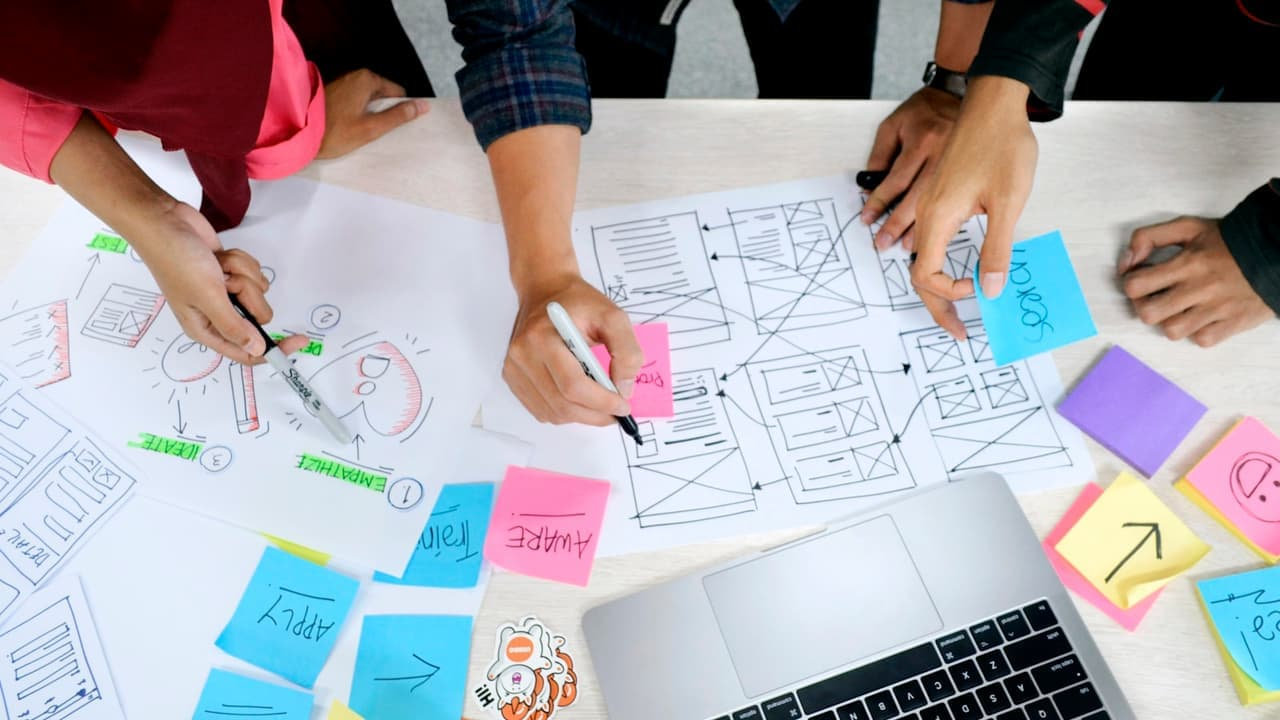
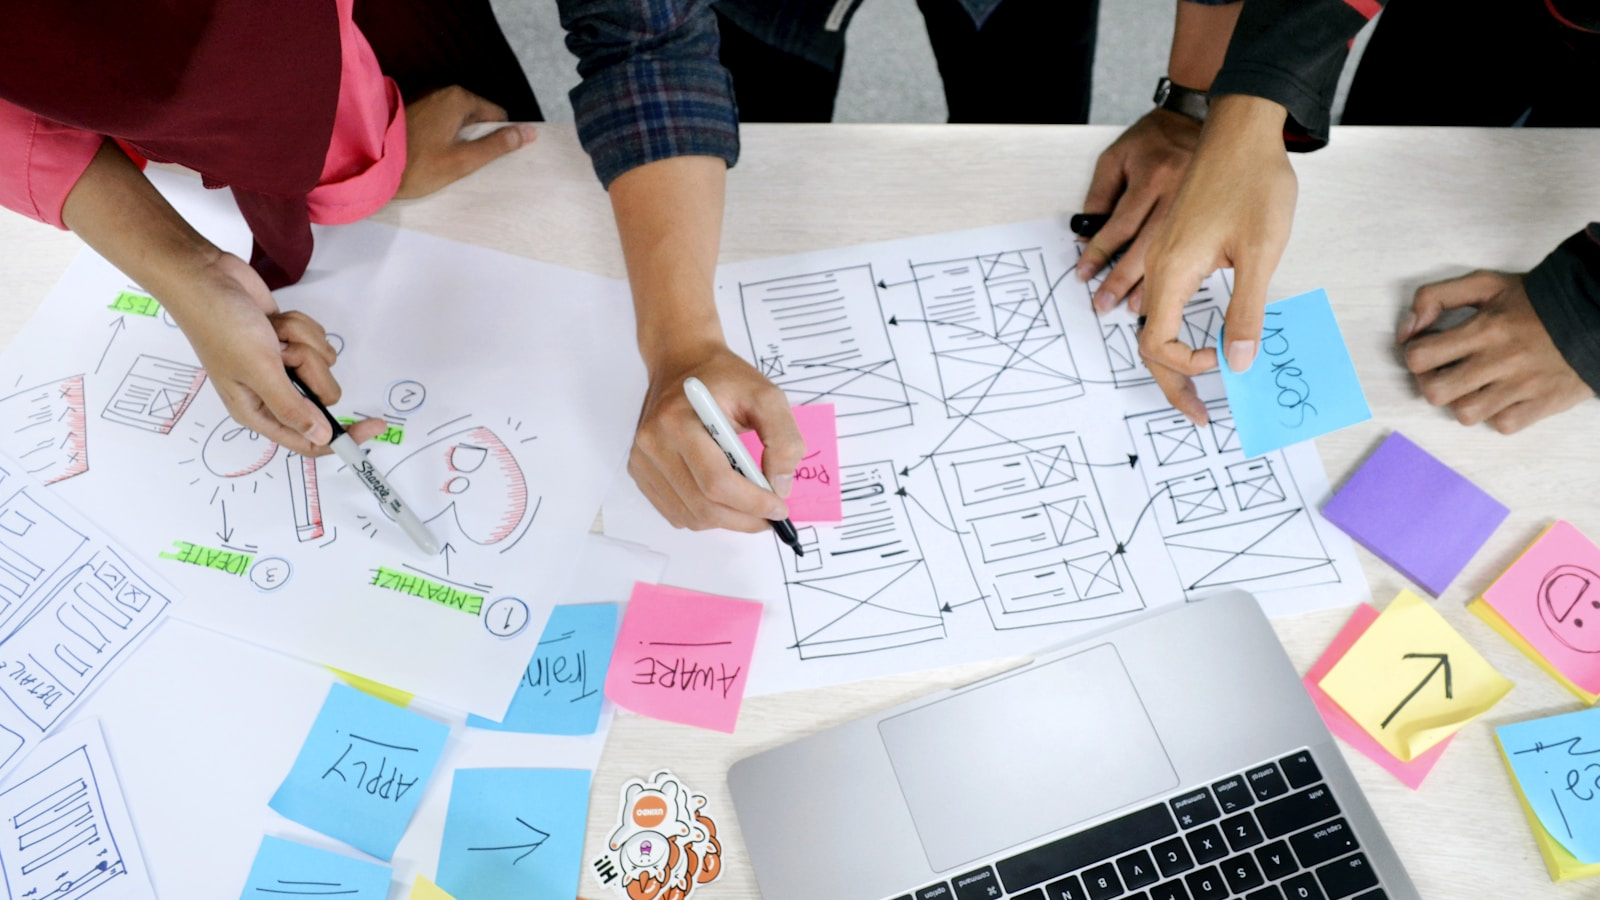
fix: regenerate errores-comunes-diseno-ux draft, add fix-ready-drafts script
Título original excedía 65 chars y el contenido tenía una frase genérica
('en este artículo') colada del prompt — regenerado con título corto y
contenido sin banned phrases, pasa el gate crítico. El script queda
reutilizable para casos similares en posts Ready (a diferencia de
regenerate-published-posts.mjs, que preserva título/slug por SEO ya
indexado, este SÍ puede regenerar el título porque el post no está publicado).

diff --git a/src/content/blog/errores-comunes-diseno-ux.md b/src/content/blog/errores-comunes-diseno-ux.md
@@ -1,0 +1,76 @@
+---
+title: "Errores de UX que queman tu presupuesto en desarrollo"
+description: "Descubre cómo evitar los fallos de experiencia de usuario más costosos en proyectos de software B2B y SaaS en Latinoamérica."
+category: "UX Design"
+author: "UserDesigners"
+tags: ["UX Design", "UX"]
+heroImage: "/assets/blog/errores-comunes-diseno-ux.jpg"
+heroImageSource: "https://images.unsplash.com/photo-1587440871875-191322ee64b0?ixid=M3wxMDIxMTA5fDB8MXxzZWFyY2h8MXx8VVglMjBEZXNpZ258ZW58MHwwfHx8MTc4NzE4NjkxN3ww&ixlib=rb-4.1.0&w=1600&h=900&fit=crop"
+date: "2026-08-20"
+readTime: "6 min"
+---
+
+# Errores de UX que queman tu presupuesto en desarrollo
+
+Tu equipo de ingeniería lleva seis meses construyendo una funcionalidad que nadie usa. El código es impecable, la arquitectura soporta millones de peticiones por minuto y el despliegue en producción fue un éxito rotundo. Sin embargo, la tasa de abandono supera el 60% durante la primera semana de lanzamiento. El problema no es técnico ni de infraestructura; es un fallo crítico en el diseño de la experiencia de usuario (UX).
+
+Construir software para empresas, fundadores y CTOs en ecosistemas tan dinámicos como el latinoamericano implica lidiar constantemente con presupuestos ajustados, deuda técnica acumulada y tiempos de entrega agresivos. En ese afán por lanzar al mercado lo más rápido posible (el famoso time-to-market), se cometen errores estructurales de diseño que cuestan hasta diez veces más corregir una vez que el código está en producción en comparación con la fase inicial de prototipado.
+
+## 1. Diseñar sin validar hipótesis reales con usuarios
+
+El error más frecuente y costoso en el desarrollo de productos digitales consiste en asumir qué necesita el cliente final basándose en intuiciones. Los fundadores, directores de producto y tomadores de decisiones a menudo se enamoran de su propia idea y construyen mapas de ruta enteros fundamentados en opiniones internas, sesgos de confirmación y no en observaciones empíricas del comportamiento del usuario.
+
+Cuando omites sistemáticamente las pruebas de usabilidad, las entrevistas contextuales y el análisis de comportamiento, reduces el desarrollo de software a una corazonada extremadamente costosa. Las interfaces corporativas y de consumo deben responder rigurosamente a flujos de trabajo reales y dolores tangibles, no a lo que el equipo directivo considera estético en una sala de juntas.
+
+### El impacto financiero de adivinar
+Validar conceptos mediante prototipos de baja y alta fidelidad antes de escribir la primera línea de código de producción ahorra miles de dólares y meses de refactorización de código. Cada funcionalidad lanzada sin validación previa es una apuesta financiera con probabilidades de retorno muy bajas. La investigación de usuarios no es un lujo estético; es una póliza de seguros contra el desarrollo especulativo.
+
+## 2. Ignorar la fricción cognitiva en flujos complejos
+
+Los productos B2B y las plataformas SaaS manejan procesos de negocio complejos por naturaleza. Sin embargo, la complejidad inherente del negocio jamás debe trasladarse a la interfaz de usuario de forma cruda. Formularios con cuarenta campos obligatorios sin categorizar, menús de navegación anidados en cuatro niveles y jerarquías visuales inexistentes saturan la capacidad de procesamiento cognitivo del usuario.
+
+La fatiga de decisión mata implacablemente la conversión y la adopción. Cada clic adicional, cada campo innecesario y cada pantalla de carga sin contexto visual aumentan exponencialmente la probabilidad de que el usuario abandone la plataforma frustrado. Reducir la fricción exige auditar los flujos críticos, simplificar las tareas en pasos digeribles y mostrar la información de manera progresiva (progressive disclosure).
+
+### Principios para reducir la fatiga mental
+* **Agrupación lógica:** Divide formularios largos en secciones temáticas cortas.
+* **Valores por defecto inteligentes:** Pre-llena campos cuando sea posible con datos históricos del usuario.
+* **Feedback inmediato:** Informa al usuario sobre el estado del sistema de manera sutil pero clara ante cada acción.
+
+![Errores de UX que queman tu presupuesto en desarrollo](https://images.unsplash.com/photo-1602576666092-bf6447a729fc?ixid=M3wxMDIxMTA5fDB8MXxzZWFyY2h8Mnx8VVglMjBEZXNpZ258ZW58MHwwfHx8MTc4NzE4NjkxN3ww&ixlib=rb-4.1.0&w=1600&h=900&fit=crop)
+
+## 3. Falta de consistencia en el sistema de diseño
+
+A medida que un producto digital escala y se incorporan nuevos escuadrones de ingeniería, diferentes equipos de desarrollo tienden a añadir componentes de interfaz de manera aislada. Un botón primario cambia sutilmente de color según la vista, los modales se comportan de forma distinta y las tipografías varían sin un criterio unificado.
+
+Esta inconsistencia visual y funcional destruye la confianza institucional en la marca y confunde profundamente al usuario, obligándolo a reaprender cómo interactuar con cada nueva sección de la misma aplicación. 
+
+### La solución: Gobernanza de componentes
+Implementar y mantener un sistema de diseño centralizado (Design System) permite estandarizar patrones de interacción, acelerar el desarrollo frontend mediante librerías de componentes reutilizables y garantizar una experiencia predecible en todo el ecosistema digital de la empresa. La consistencia reduce el tiempo de desarrollo y minimiza la deuda de diseño.
+
+## 4. Priorizar la estética sobre la accesibilidad y el rendimiento
+
+Las animaciones complejas, los fondos oscuros mal calibrados, el uso excesivo de elementos flotantes y las tipografías ilegibles pueden parecer modernas en Dribbble, pero si impiden que el usuario complete una tarea básica de negocio, el diseño ha fracasado rotundamente.
+
+En mercados con conectividad variable y dispositivos heterogéneos, el rendimiento técnico del producto define su supervivencia comercial. Una interfaz pesada que tarda ocho segundos en renderizar genera abandono inmediato. El buen diseño equilibra la claridad visual con tiempos de carga mínimos, optimización de recursos y estándares de accesibilidad (como contraste adecuado y navegación por teclado) que permitan operar a cualquier perfil de usuario.
+
+![Errores de UX que queman tu presupuesto en desarrollo](https://images.unsplash.com/photo-1576153192396-180ecef2a715?ixid=M3wxMDIxMTA5fDB8MXxzZWFyY2h8M3x8VVglMjBEZXNpZ258ZW58MHwwfHx8MTc4NzE4NjkxN3ww&ixlib=rb-4.1.0&w=1600&h=900&fit=crop)
+
+## 5. Desconectar el diseño de las métricas de negocio
+
+Diseñar por diseñar no aporta valor financiero sostenible. Muchas organizaciones invierten sumas considerables en rediseños cosméticos orientados únicamente a cambiar la apariencia visual sin medir de forma rigurosa el impacto real en la retención, el tiempo de tarea o el costo de adquisición de clientes (CAC).
+
+El diseño de experiencia de usuario debe medirse consistentemente con KPIs de negocio claros. Si un cambio estructural en el flujo de incorporación (onboarding) no logra reducir la tasa de abandono ni incrementa la activación a largo plazo, se trata de una modificación estética irrelevante. Cada decisión de diseño debe estar anclada a un objetivo cuantitativo y medible de la organización.
+
+## Preguntas frecuentes
+
+**¿Cuánto cuesta corregir un error de UX después del lanzamiento?**
+Estudios consolidados de la industria del software indican que corregir un error de diseño o usabilidad detectado en la fase de desarrollo y post-lanzamiento cuesta hasta cien veces más que solucionarlo durante la etapa inicial de investigación, ideación y prototipado temprano.
+
+**¿Cómo convencer a los stakeholders y directivos de invertir en investigación de usuarios?**
+Demostrando de manera directa el costo financiero del desarrollo especulativo. Presentar datos cuantitativos de abandono, análisis de sesiones grabadas y métricas de soporte técnico suele ser suficiente para evidenciar ante la junta directiva que adivinar qué quiere el usuario resulta exponencialmente más caro que investigarlo previamente.
+
+**¿Qué diferencia hay entre UI y UX en un producto digital complejo?**
+UX abarca la estrategia integral, la arquitectura de la información, los flujos de trabajo y la resolución de problemas lógicos del usuario, mientras que UI se encarga de la traducción visual tangible, los componentes gráficos, el diseño responsivo y la interacción estética de esa solución estratégica.
+
+**¿Cómo impacta un sistema de diseño en la velocidad de los equipos de ingeniería?**
+Reduce drásticamente el tiempo de desarrollo frontend al eliminar la necesidad de crear componentes desde cero para cada nueva funcionalidad, permitiendo que los desarrolladores se concentren en la lógica de negocio y la integración de APIs en lugar de en decisiones de estilo visual.
